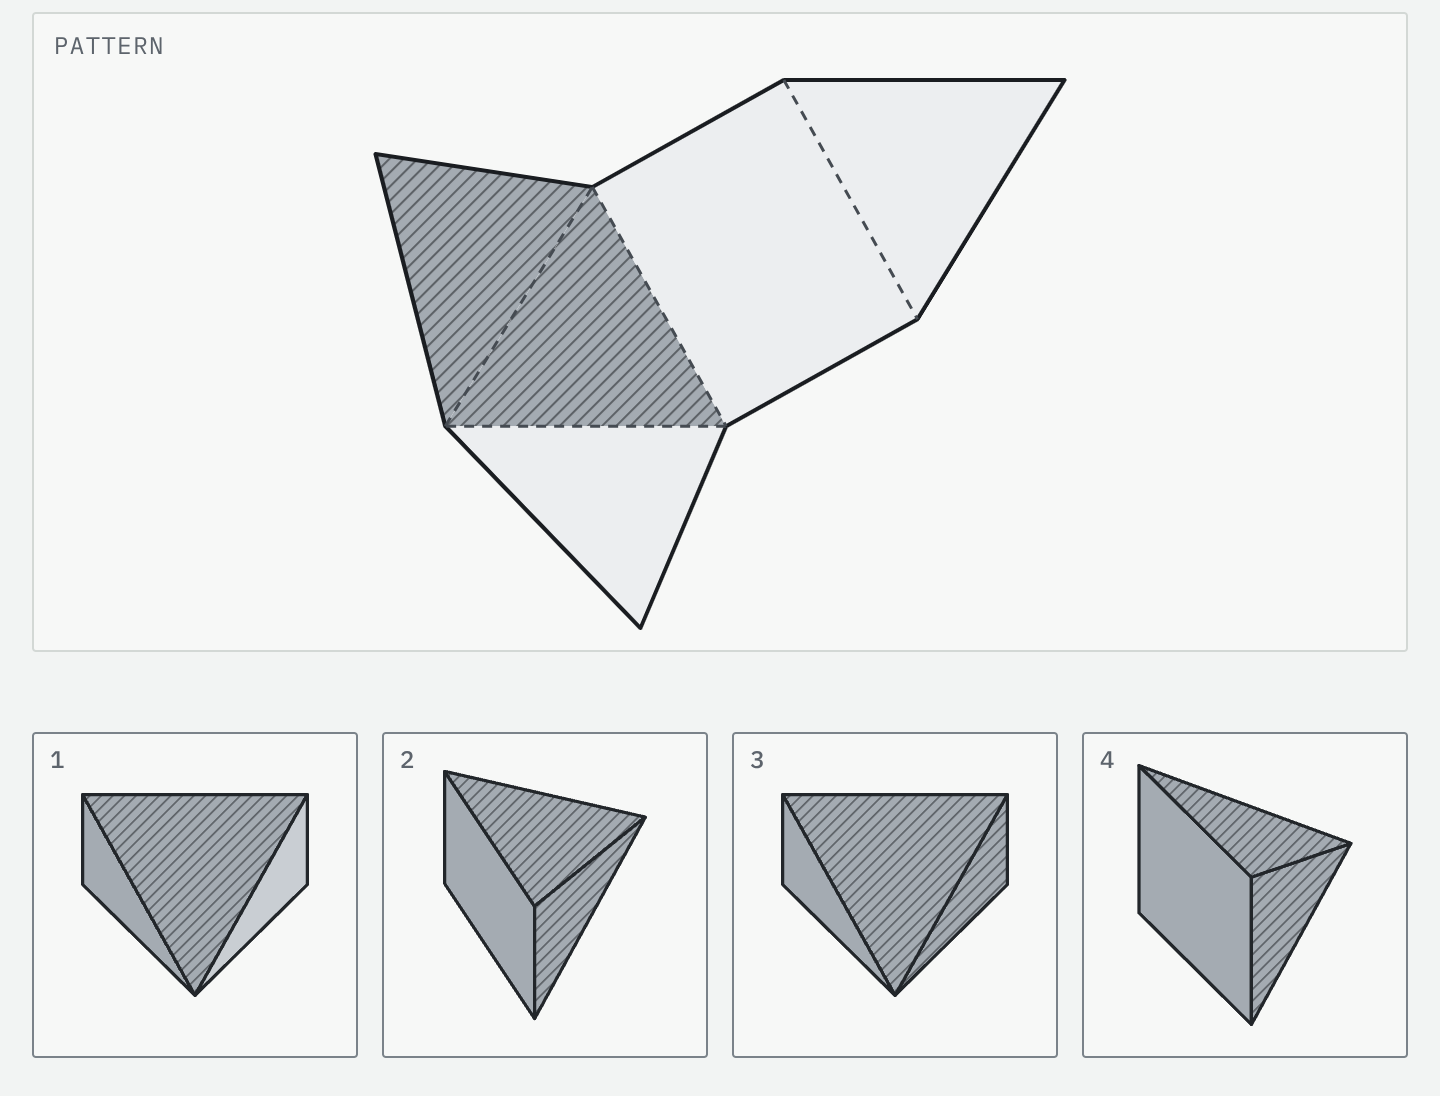
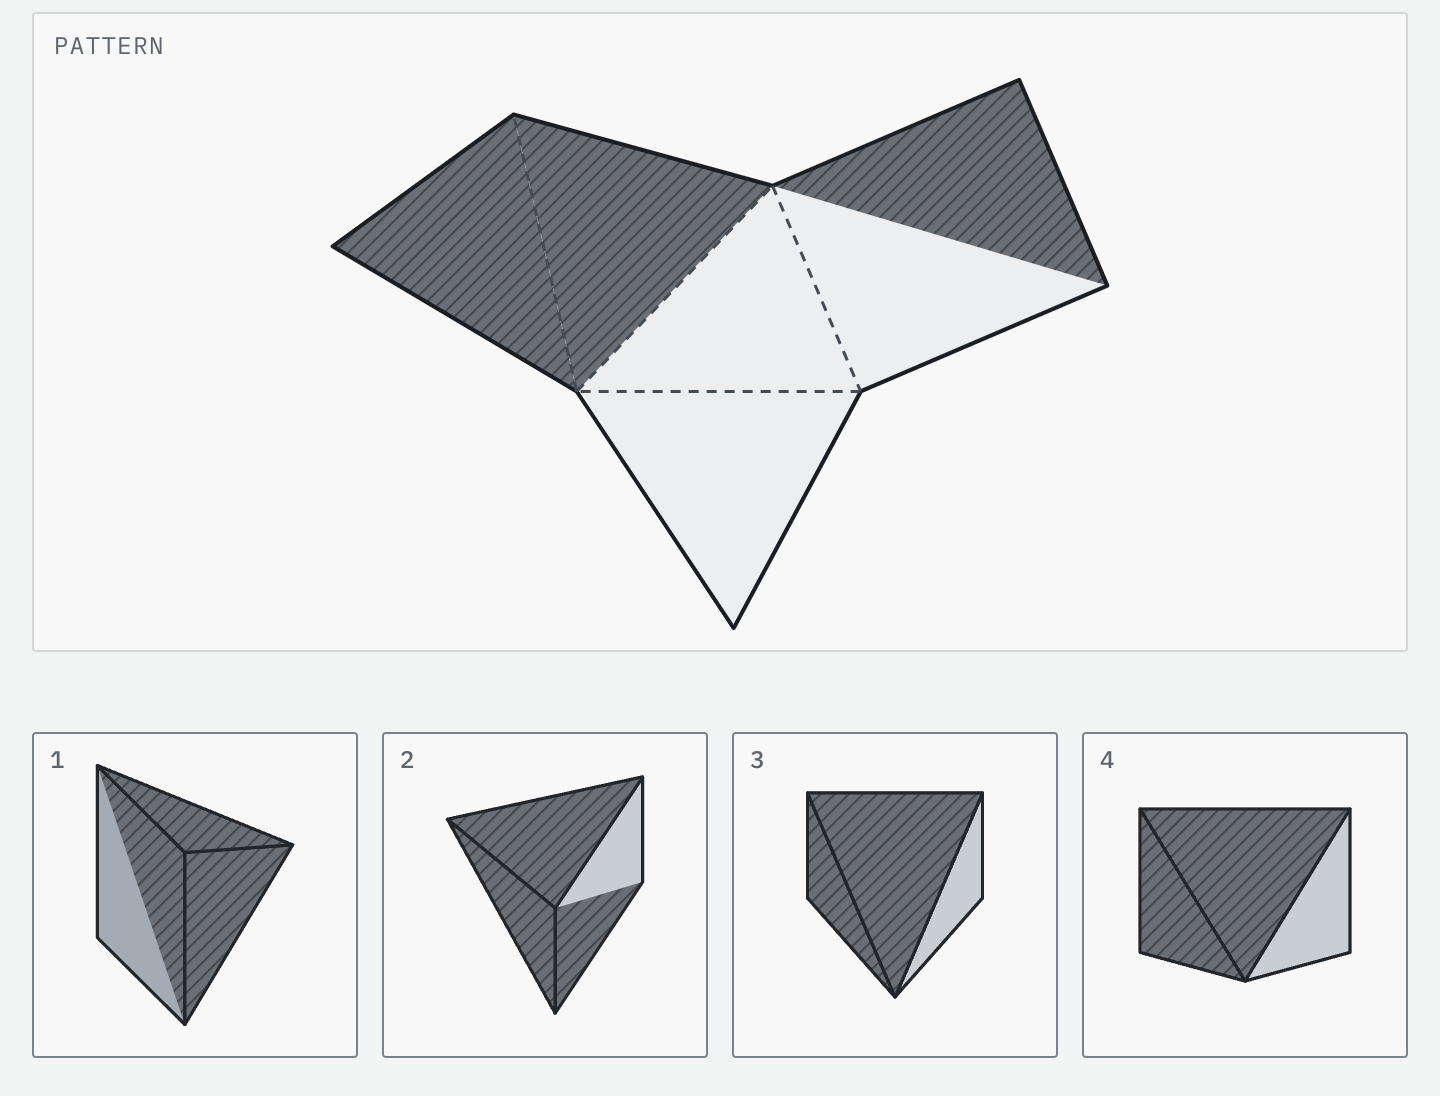
STATE: fresh-player play-through RV-F started

diff --git a/js/ex/reckon/view.js b/js/ex/reckon/view.js
@@ -29,6 +29,7 @@
   var BACK_SHARE = 0.6;    // Back moves at this share of the walk speed
   var MAX_WALK = 40;       // m: the walk back stops here
   var HERE_MIN = 0.5;      // m: Here needs at least this much walking
+  var STEP_M = 0.5;        // m: one keyboard or screen-reader activation of Walk or Back
   var CHART_N = 20;
   var VIEW_MIN = 4;        // m: at reveal the view stands at least this far from the flag
 
@@ -70,6 +71,7 @@
   var st = null;
   function live() { return !!(st && st.live && !st.playing); }
   function isReturn(item) { return item && item.answer === 'position'; }
+  function setText(el, t) { if (el.textContent !== t) el.textContent = t; }
   function canTurn() { return live() && st.item.task !== 'distance' && st.dist < 0.05; }
 
   function mount(ctx) {
@@ -122,6 +124,15 @@
     });
     function up(e) { if (e.pointerId === id) { id = null; setDir(0); } }
     ['pointerup', 'pointercancel', 'lostpointercapture'].forEach(function (ev) { b.addEventListener(ev, up); });
+    // Enter or Space on the focused button, or a screen reader's activation (a click with detail 0): one
+    // step of STEP_M, eased like a hold
+    b.addEventListener('click', function (e) {
+      if (e.detail !== 0 || b.disabled || !st || !live()) return;
+      st.input = 'key'; st.mode = 'walk';
+      setDir(dir);
+      var v = st.item.walkSpeed * (dir < 0 ? BACK_SHARE : 1);
+      window.setTimeout(function () { if (st && st.dir === dir) setDir(0); }, Math.round(1000 * STEP_M / v));
+    });
     b.addEventListener('contextmenu', function (e) { e.preventDefault(); });
     return b;
   }
@@ -224,10 +235,12 @@
   }
   function readout() {
     var t = st.kit.sideText(cap, st.value === null ? 0 : st.value);
-    if (live() && isReturn(st.item) && !st.item.task) st.el.phase.textContent = cap(st.dist >= 0.05 ? 'phaseWalk' : 'phaseReturnTurn');
-    if (st.item.task === 'distance') st.el.readout.textContent = '';
-    else if (st.dist >= 0.05) st.el.readout.textContent = cap('readoutLocked', { dir: t });
-    else st.el.readout.textContent = st.value === null ? cap('readoutNone') : cap('readout', { dir: t }) || t;
+    // written only when the text changes: the walk loop calls this every frame, and the phase line is a
+    // polite live region
+    if (live() && isReturn(st.item) && !st.item.task) setText(st.el.phase, cap(st.dist >= 0.05 ? 'phaseWalk' : 'phaseReturnTurn'));
+    if (st.item.task === 'distance') setText(st.el.readout, '');
+    else if (st.dist >= 0.05) setText(st.el.readout, cap('readoutLocked', { dir: t }));
+    else setText(st.el.readout, st.value === null ? cap('readoutNone') : cap('readout', { dir: t }) || t);
   }
   function controls() {
     if (!st || !st.item) return;
@@ -268,7 +281,11 @@
     if (dir < 0 && st.dist <= 0) dir = 0;
     st.dir = dir;
     if (dir !== 0) st.kit.hintOff(st.S);
-    if (dir !== 0) { if (st.value === null) { st.value = 0; st.raw = 0; st.D.set(0, st.kit.sideText(cap, 0)); } startWalkBack(); }
+    if (dir !== 0) {
+      if (st.value === null) { st.value = 0; st.raw = 0; st.D.set(0, st.kit.sideText(cap, 0)); }
+      st.raw = st.value; // walk along the whole degree that is scored (a drag leaves a fraction)
+      startWalkBack();
+    }
   }
   function startWalkBack() {
     if (st.walkStop) return;

diff --git a/css/ex/reckon.css b/css/ex/reckon.css
@@ -6,9 +6,9 @@
 .ex-reckon .ex-reckon-hold {
   touch-action: none; user-select: none; -webkit-user-select: none; -webkit-touch-callout: none;
 }
-.ex-reckon .ex-fp-actions > .ex-reckon-walk { flex: 2 1 0; min-height: 3.5rem; font-size: var(--fs-md, 1rem); font-weight: 600; }
+.ex-reckon .ex-fp-actions > .ex-reckon-walk { flex: 2 1 0; min-height: 4rem; font-size: var(--fs-md, 1rem); font-weight: 600; } /* 64 px in the thumb zone (R1 §7.1) */
 .ex-reckon .ex-fp-actions > .ex-reckon-back { flex: 1 1 0; }
-.ex-reckon .ex-fp-actions > .ex-reckon-here { flex: 1.2 1 0; min-height: 3.5rem; }
+.ex-reckon .ex-fp-actions > .ex-reckon-here { flex: 1.2 1 0; min-height: 4rem; }
 .ex-reckon .ex-reckon-hold:active:not(:disabled) { background: var(--surface-2, #E9ECEE); }
 /* away from the route's end the direction is set: the circle and the fine turns rest */
 .ex-reckon .ex-fp.is-answering.is-walked .ex-fp-dialbox, .ex-reckon .ex-fp.is-answering.is-distance .ex-fp-dialbox { opacity: 0.45; }
@@ -31,6 +31,3 @@
 .ex-reckon .ex-reckon-bias { font-weight: 500; color: var(--ink, #1A1D21); }
 .ex-reckon .ex-reckon-chartnote { margin: var(--s1, 0.25rem) 0 0; font-size: var(--fs-xs, 0.8125rem); line-height: 1.4; color: var(--ink-3, #5D646C); text-align: center; }
 
-@media (max-width: 42rem) {
-  .ex-reckon .ex-fp-actions > .ex-reckon-walk, .ex-reckon .ex-fp-actions > .ex-reckon-here { min-height: 3.25rem; }
-}

diff --git a/docs/dev/STATE.md b/docs/dev/STATE.md
@@ -55,6 +55,7 @@ Updated 2026-11-13 19:10 UTC. All 19 exercises are active in index.html (Knots a
 - RV-E done (docs/dev/reviews/RV-reckon-homing.md): scoring right; 2 blockers (turn-only strategies beat chance + 10 in Reckon and Homing; strategy card side error), 6 should-fix; B3 fix round resumed (a4766dc5c229a6ee1); B1 added trial column value2.
 - RV-H done (docs/dev/reviews/RV-code-core.md): no blockers; 4 should-fix (closing-item cap, check time as practice, two-tab merge of new fields, idle cap on late timers); B1 fix round done (value2 = trial column 13; CSV 18 columns).
 - Guide writer G1 (guide 1.1 pages, shots, PDF, README, CHANGELOG): ac14d632f5849a4a9 → docs/dev/progress/G1.md
+- Play-through RV-F (fresh player, no source: six DAT-style tutorials, Section mini, focus; phone 390×844 and 360×640, desktop): a76c1d49da2d6b2fa → docs/dev/reviews/RV-play-dat.md. A second play-through for Reckon, Homing and Knots after B3/B4.
 - RV-C done (docs/dev/reviews/RV-knots.md): all answers right; Show me replay can show a type-changing move; 3 false texts; 2 untie cues at the limit; B4 fix round resumed (a0dafe0ed9a9dc012).
 - Finished: B3 (a4766dc5c229a6ee1), B2 (aed53d9e449759e47), B6 (a0dc048b845b7fc8e), B4 (a0dafe0ed9a9dc012), B1 (a34b20ea2c882325b), B5 (abccc8030cd5dc4ce), B7 (a0a560fe48fdb31c0).
 
